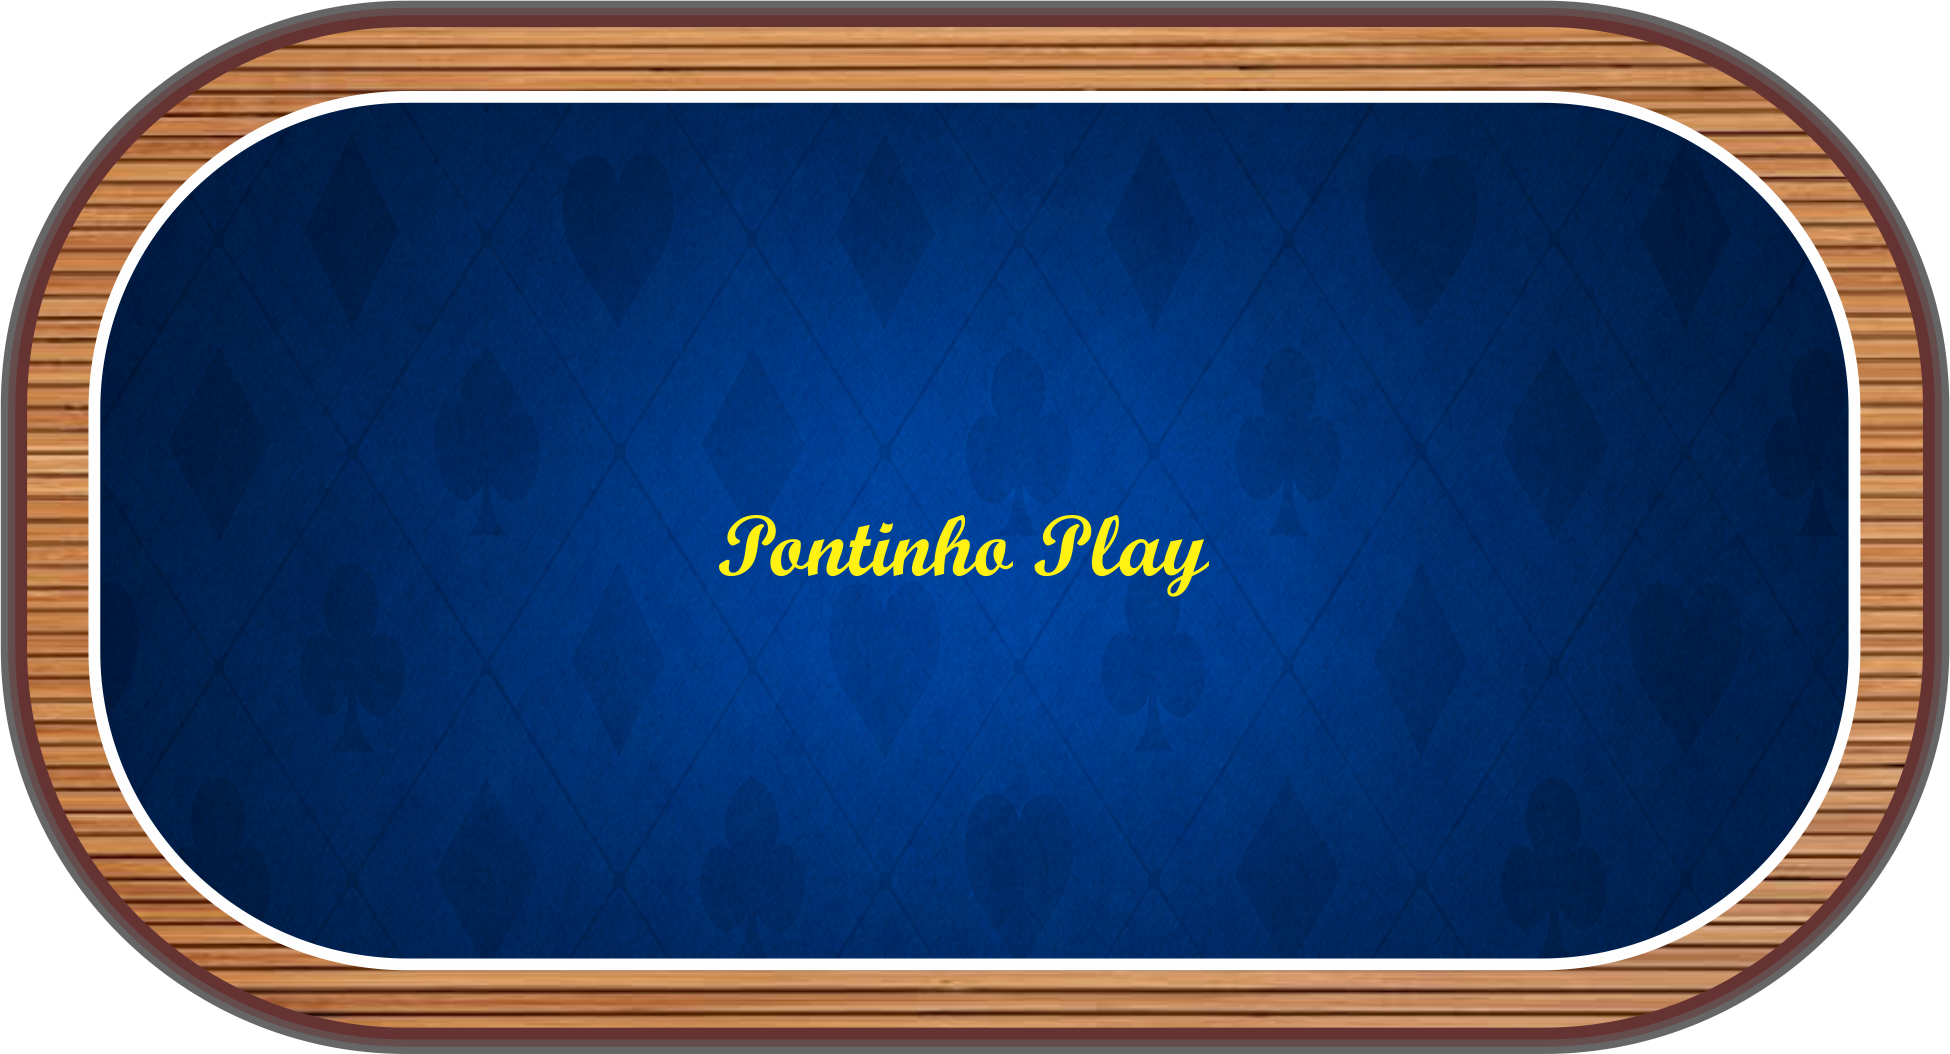
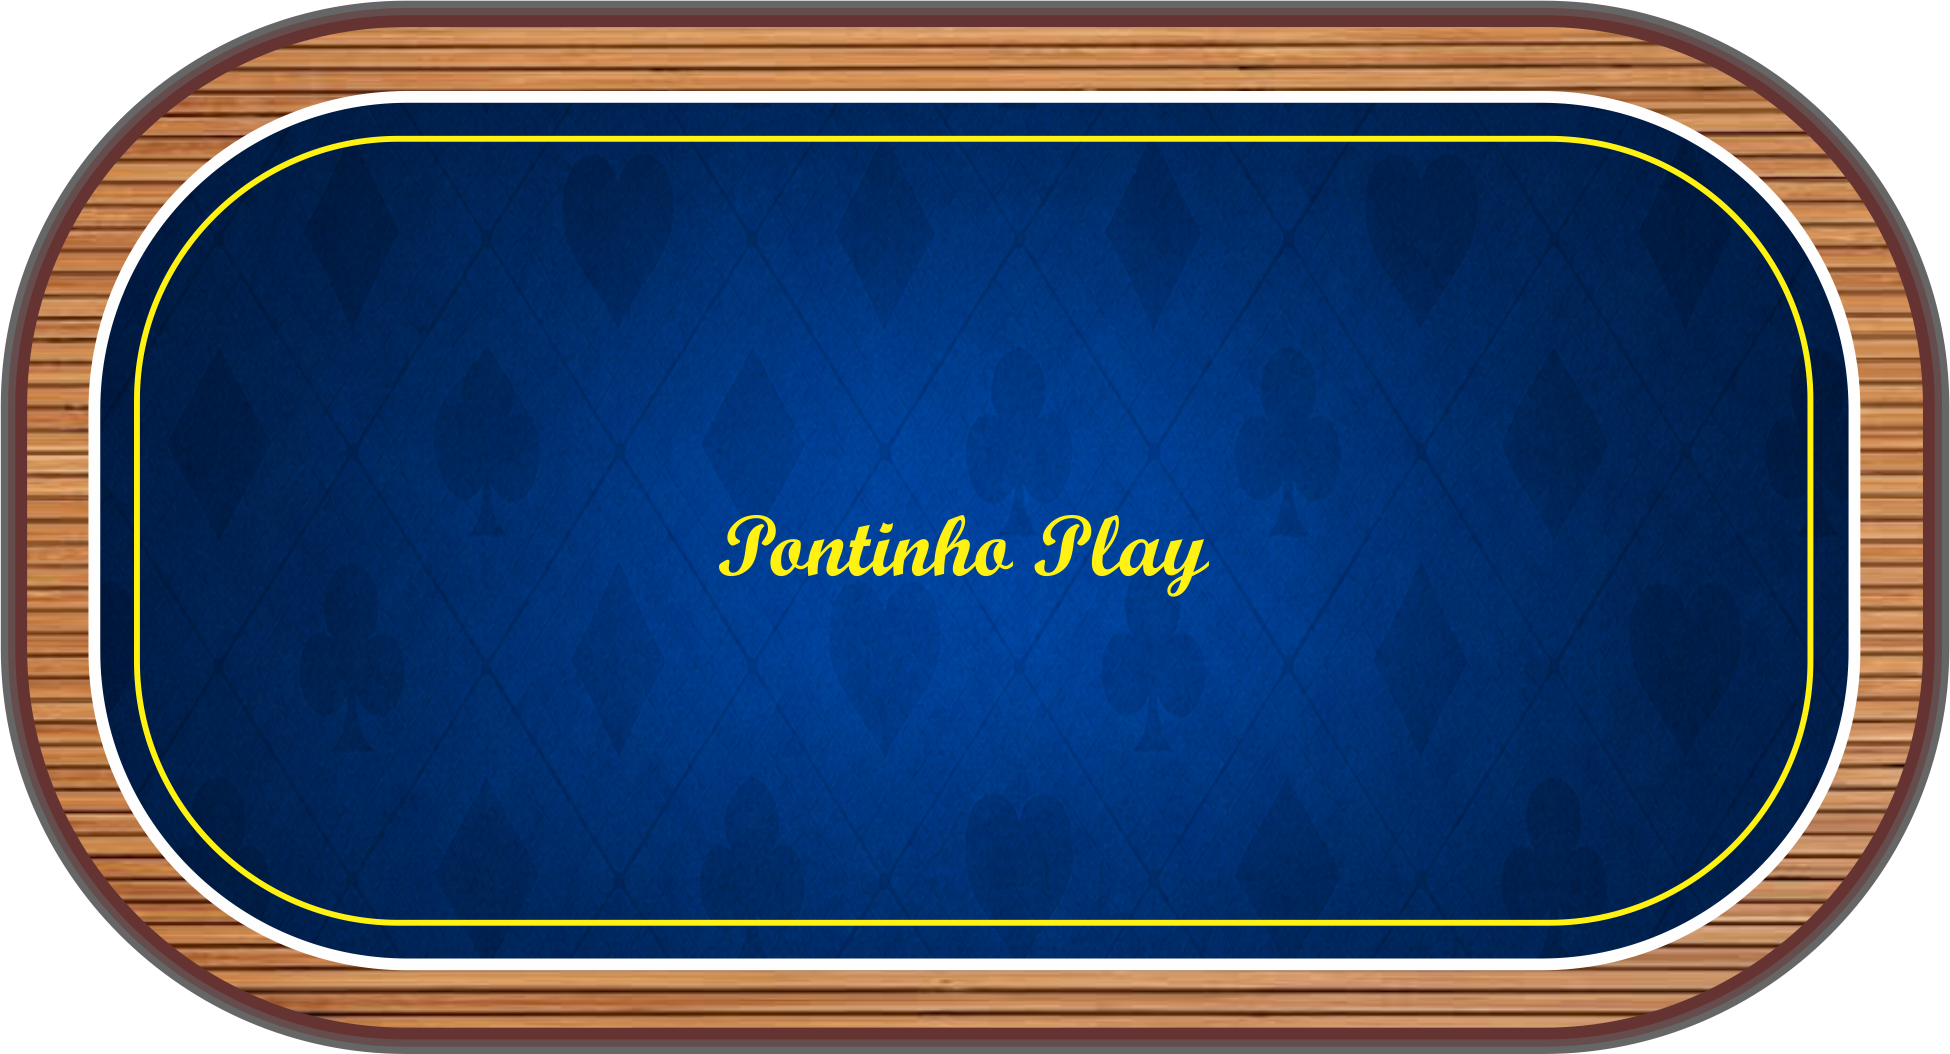
atualizacoes pontuais

diff --git a/pontinho/css/layout.css b/pontinho/css/layout.css
@@ -342,7 +342,7 @@ body{
   /* Tela de Mesa Classic*/
   background:
     
-    url('/assets/image/bg-blu.png') no-repeat center center;
+    url('/assets/image/bg-az.png') no-repeat center center;
 
   background-size: cover;
   background-attachment: fixed;
@@ -453,12 +453,13 @@ body{
 
 
 
-/* ✅ posições (casam com positions = ["pos1","pos2"...] do app.js)*/
+/*Posições dos Assentos na Sala de Mesas*/
+
 .seat.pos1 { left: 50%; top: 92%; transform: translate(-50%, -50%); }  /* baixo */
 .seat.pos2 { left: 3%;  top: 52%; transform: translate(-50%, -50%); }  /* esquerda */
-.seat.pos3 { left: 20%; top: 8%; transform: translate(-50%, -50%); }  /* topo-esq */
-.seat.pos4 { left: 50%; top: 7%;  transform: translate(-50%, -50%); }  /* topo */
-.seat.pos5 { left: 80%; top: 8%; transform: translate(-50%, -50%); }  /* topo-dir */
+.seat.pos3 { left: 20%; top: 15%; transform: translate(-50%, -50%); }  /* topo-esq */
+.seat.pos4 { left: 50%; top: 14%;  transform: translate(-50%, -50%); }  /* topo */
+.seat.pos5 { left: 80%; top: 15%; transform: translate(-50%, -50%); }  /* topo-dir */
 .seat.pos6 { left: 98%; top: 52%; transform: translate(-50%, -50%); }  /* direita */
 
 
